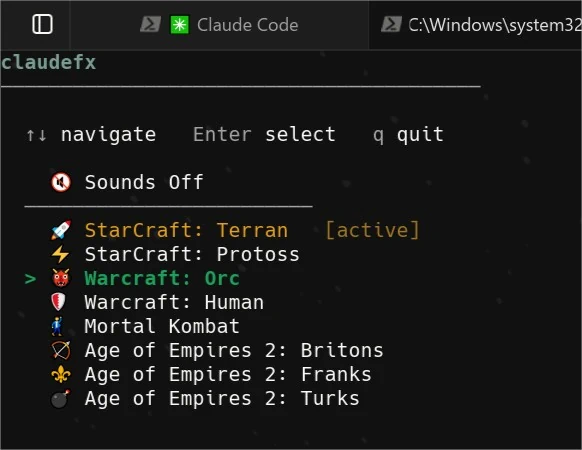
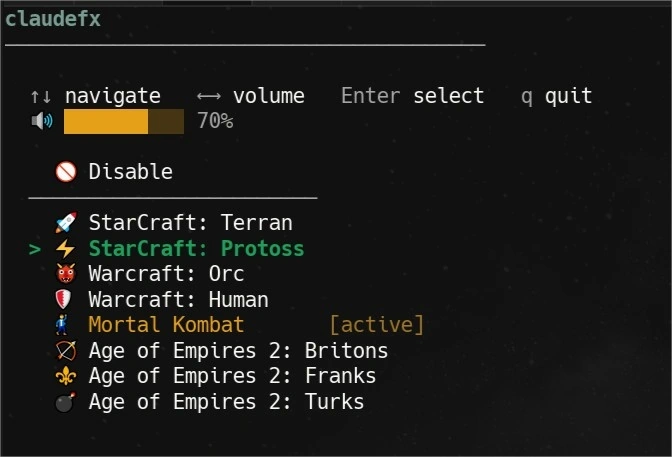
volume control is added.

diff --git a/src/menu.js b/src/menu.js
@@ -2,7 +2,7 @@ import { get } from './themes/index.js';
 import * as claudeCode from './adapters/claude-code.js';
 
 const MENU_ITEMS = [
-  { id: 'none',        name: '🔇 Sounds Off' },
+  { id: 'none',        name: '🚫 Disable' },
   null,
   { id: 'sc-terran',   name: '🚀 StarCraft: Terran' },
   { id: 'sc-protoss',  name: '⚡ StarCraft: Protoss' },
@@ -21,6 +21,11 @@ function write(s) {
   process.stdout.write(s);
 }
 
+function volumeBar(vol) {
+  const filled = Math.round(vol / 10);
+  return '█'.repeat(filled) + '░'.repeat(10 - filled);
+}
+
 export function showMenu() {
   if (!process.stdin.isTTY) {
     console.error('No TTY available. Use: claudefx use <theme>');
@@ -29,6 +34,7 @@ export function showMenu() {
 
   const activeId = claudeCode.current() ?? 'none';
   let selected = Math.max(0, NAV_ITEMS.findIndex(item => item.id === activeId));
+  let volume = claudeCode.getVolume();
 
   write('\x1b[?1049h'); // enter alt screen
   write('\x1b[?25l');   // hide cursor
@@ -46,7 +52,8 @@ export function showMenu() {
     write('\x1b[1;36mclaudefx\x1b[0m\n');
     write('\x1b[2m────────────────────────────────────────\x1b[0m\n');
     write('\n');
-    write('  \x1b[2m↑↓\x1b[0m navigate   \x1b[2mEnter\x1b[0m select   \x1b[2mq\x1b[0m quit\n');
+    write('  \x1b[2m↑↓\x1b[0m navigate   \x1b[2m←→\x1b[0m volume   \x1b[2mEnter\x1b[0m select   \x1b[2mq\x1b[0m quit\n');
+    write(`  \x1b[2m🔊\x1b[0m \x1b[33m${volumeBar(volume)}\x1b[0m \x1b[2m${volume}%\x1b[0m\n`);
     write('\n');
 
     let navIndex = 0;
@@ -92,6 +99,14 @@ export function showMenu() {
     } else if (key === '\x1b[B') {
       selected = (selected + 1) % NAV_ITEMS.length;
       draw();
+    } else if (key === '\x1b[D') { // left arrow
+      volume = Math.max(0, volume - 10);
+      claudeCode.setVolume(volume);
+      draw();
+    } else if (key === '\x1b[C') { // right arrow
+      volume = Math.min(100, volume + 10);
+      claudeCode.setVolume(volume);
+      draw();
     } else if (key === '\r') {
       const item = NAV_ITEMS[selected];
       cleanup();
@@ -101,10 +116,10 @@ export function showMenu() {
         write('\x1b[1;33m✓ Sounds disabled\x1b[0m\n');
       } else {
         const theme = get(item.id);
-        claudeCode.ensureGlobalInstall();
-        claudeCode.apply(theme);
+        try { claudeCode.ensureGlobalInstall(); } catch { /* npx handles it */ }
+        claudeCode.apply(theme, volume);
         const fullNote = theme.full ? ' (full)' : '';
-        write(`\x1b[1;32m✓ Applied "${theme.name}"${fullNote}\x1b[0m\n`);
+        write(`\x1b[1;32m✓ Applied "${theme.name}"${fullNote} at ${volume}%\x1b[0m\n`);
       }
 
       process.exit(0);

diff --git a/src/player.js b/src/player.js
@@ -10,19 +10,21 @@ function pickRandom(arr) {
   return arr[Math.floor(Math.random() * arr.length)];
 }
 
-function playFile(filePath) {
+function playFile(filePath, volume = 100) {
   if (!existsSync(filePath)) return;
 
   let cmd, args;
 
   if (process.platform === 'darwin') {
     cmd = 'afplay';
-    args = [filePath];
+    args = ['-v', String(volume / 100), filePath];
   } else if (process.platform === 'win32') {
     const escaped = filePath.replace(/\\/g, '/');
+    const mciVol = volume * 10; // MCI range: 0–1000
     const ps = [
       'Add-Type -TypeDefinition \'using System; using System.Text; using System.Runtime.InteropServices; public class MCI { [DllImport("winmm.dll", CharSet=CharSet.Auto)] public static extern int mciSendString(string cmd, StringBuilder ret, int cch, IntPtr hwnd); }\'',
       `[MCI]::mciSendString('open "${escaped}" type mpegvideo alias media', $null, 0, [IntPtr]::Zero)`,
+      `[MCI]::mciSendString('setaudio media volume to ${mciVol}', $null, 0, [IntPtr]::Zero)`,
       '[MCI]::mciSendString(\'play media wait\', $null, 0, [IntPtr]::Zero)',
       '[MCI]::mciSendString(\'close media\', $null, 0, [IntPtr]::Zero)',
     ].join('; ');
@@ -33,8 +35,9 @@ function playFile(filePath) {
     }
     return;
   } else {
+    const factor = Math.round(volume / 100 * 32768); // mpg123 range: 0–32768
     cmd = 'mpg123';
-    args = ['-q', filePath];
+    args = ['-q', '-f', String(factor), filePath];
   }
 
   try {
@@ -45,10 +48,10 @@ function playFile(filePath) {
   }
 }
 
-export function playEvent(theme, event) {
+export function playEvent(theme, event, volume = 100) {
   const files = theme.events[event];
   if (!files || files.length === 0) return;
   const file = pickRandom(files);
   const filePath = join(SOUNDS_DIR, theme.soundDir, file);
-  playFile(filePath);
+  playFile(filePath, volume);
 }

diff --git a/bin/cli.js b/bin/cli.js
@@ -16,6 +16,7 @@ Usage:
   claudefx use <theme>   Apply a theme
   claudefx off           Disable sounds
   claudefx current       Show active theme
+  claudefx volume <n>    Set volume (0–100)
   claudefx hook <event>  Play sound for event (called by hooks)
 `);
 }
@@ -40,7 +41,7 @@ switch (command) {
     }
     try {
       const theme = get(id);
-      claudeCode.ensureGlobalInstall();
+      try { claudeCode.ensureGlobalInstall(); } catch { /* npx handles it */ }
       claudeCode.apply(theme);
       const fullNote = theme.full ? ' (full)' : '';
       console.log(`\x1b[1;32m✓ Applied "${theme.name}"${fullNote}\x1b[0m`);
@@ -73,6 +74,17 @@ switch (command) {
     break;
   }
 
+  case 'volume': {
+    const vol = parseInt(args[0], 10);
+    if (isNaN(vol) || vol < 0 || vol > 100) {
+      console.error('Usage: claudefx volume <0–100>');
+      process.exit(1);
+    }
+    claudeCode.setVolume(vol);
+    console.log(`\x1b[1;32m✓ Volume set to ${vol}%\x1b[0m`);
+    break;
+  }
+
   case 'hook': {
     const event = args[0];
     if (!event) process.exit(0);
@@ -80,7 +92,8 @@ switch (command) {
     if (!id) process.exit(0);
     try {
       const theme = get(id);
-      playEvent(theme, event);
+      const volume = claudeCode.getVolume();
+      playEvent(theme, event, volume);
     } catch {
       // silently ignore — hooks must not break Claude Code
     }

diff --git a/src/adapters/claude-code.js b/src/adapters/claude-code.js
@@ -85,7 +85,7 @@ function isSoundHook(h) {
   return h?.hooks?.some(hh => hh.command?.includes('claudefx hook'));
 }
 
-export function apply(theme) {
+export function apply(theme, volume) {
   const settings = readSettings();
   const hooks = settings.hooks ?? {};
 
@@ -97,9 +97,21 @@ export function apply(theme) {
 
   settings.hooks = hooks;
   settings.spinnerVerbs = { mode: 'replace', verbs: theme.verbs };
-  settings['claudefx'] = { theme: theme.id };
+  const current = settings['claudefx'] ?? {};
+  settings['claudefx'] = { ...current, theme: theme.id, volume: volume ?? current.volume ?? 60 };
   writeSettings(settings);
   applyVscode(theme.verbs);
+}
+
+export function getVolume() {
+  const settings = readSettings();
+  return settings['claudefx']?.volume ?? 60;
+}
+
+export function setVolume(volume) {
+  const settings = readSettings();
+  settings['claudefx'] = { ...(settings['claudefx'] ?? {}), volume };
+  writeSettings(settings);
 }
 
 export function off() {

diff --git a/README.md b/README.md
@@ -45,7 +45,7 @@ Each theme also replaces Claude Code's spinner verbs with game-themed phrases. W
 npx claudefx
 ```
 
-Use `↑↓` to navigate, `Enter` to select, `q` to quit.
+Use `↑↓` to navigate, `←→` to adjust volume, `Enter` to select, `q` to quit.
 
 <img src="assets/image-claudefx-menu.webp" width="439" alt="Interactive menu">
 
@@ -57,6 +57,7 @@ npx claudefx use <theme>       # apply a theme
 npx claudefx use ao2-turks     # example
 npx claudefx off               # disable sounds
 npx claudefx current           # show active theme
+npx claudefx volume <0-100>    # set volume (e.g. claudefx volume 60)
 ```
 
 ## How It Works
